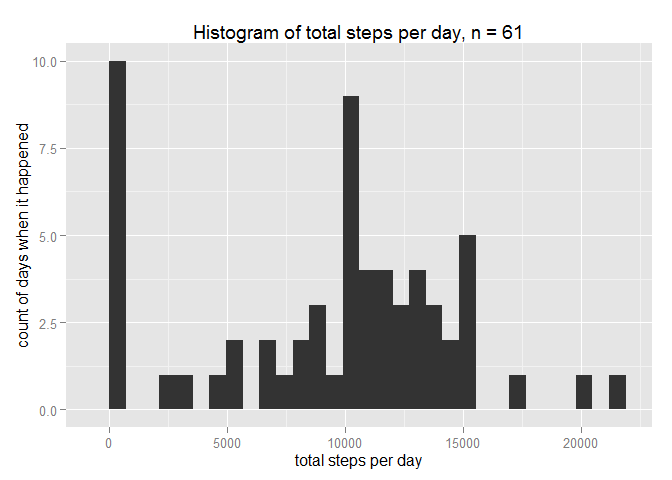
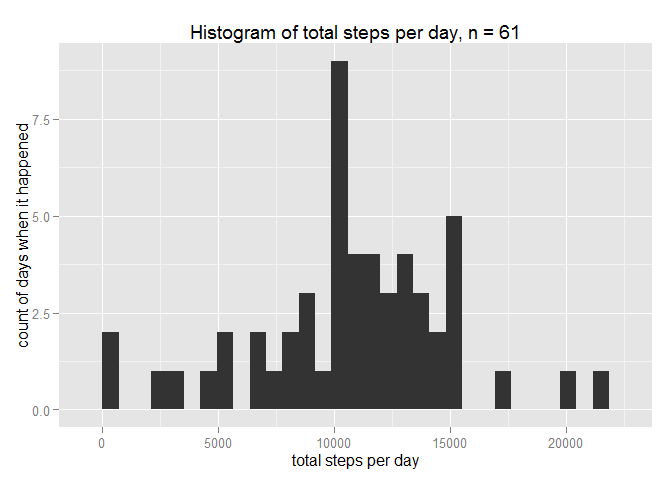
final
final

diff --git a/PA1_template_szzs.html b/PA1_template_szzs.html
@@ -83,7 +83,8 @@ library(dplyr)</code></pre>
 <h3>Total number of steps taken per day</h3>
 <p>The numbers are summarized in a new dataframe called “dailySteps” produced by the code below.</p>
 <pre class="r"><code>dailySteps &lt;- summarise(group_by(stepData, date), 
-                        &quot;totalsteps&quot; = sum(steps, na.rm=TRUE))</code></pre>
+                        &quot;totalsteps&quot; = sum(steps, na.rm=TRUE))
+dailySteps &lt;- filter(dailySteps, dailySteps$totalsteps!=0)</code></pre>
 </div>
 <div id="histogram-of-the-total-number-of-steps-taken-each-day" class="section level3">
 <h3>Histogram of the total number of steps taken each day</h3>
@@ -92,15 +93,15 @@ library(dplyr)</code></pre>
       xlab = &quot;total steps per day&quot;, 
       ylab = &quot;count of days when it happened&quot;,
       main = &quot;Histogram of total steps per day, n = 61&quot;)</code></pre>
[2 lines of base64/hex data omitted]
 </div>
 <div id="mean-and-median-of-the-total-number-of-steps-taken-per-day" class="section level3">
 <h3>Mean and median of the total number of steps taken per day</h3>
 <p>For this calculation still the “dailySteps” dataframe is used. The mean and the median are slightly different.</p>
 <pre class="r"><code>print(paste(&quot;mean:&quot;, round(mean(dailySteps$totalsteps), digits=0)))</code></pre>
-<pre><code>## [1] &quot;mean: 9354&quot;</code></pre>
+<pre><code>## [1] &quot;mean: 10766&quot;</code></pre>
 <pre class="r"><code>print(paste(&quot;median:&quot;, median(dailySteps$totalsteps)))</code></pre>
-<pre><code>## [1] &quot;median: 10395&quot;</code></pre>
+<pre><code>## [1] &quot;median: 10765&quot;</code></pre>
 </div>
 </div>
 <div id="what-is-the-average-daily-activity-pattern" class="section level2">
@@ -118,9 +119,10 @@ qplot(intervalSteps$interval, intervalSteps$`average steps in interval`, data=in
 </div>
 <div id="the-5-minute-interval-which-contains-the-maximum-number-of-steps" class="section level3">
 <h3>The 5-minute interval which contains the maximum number of steps</h3>
-<p>The most active time interval is shown to be around 17 o’clock in the afternoon.</p>
-<pre class="r"><code>intervalSteps$interval[max(intervalSteps$`average steps in interval`)]</code></pre>
-<pre><code>## [1] 1705</code></pre>
+<p>The most active time interval is shown to be in the one below.</p>
+<pre class="r"><code>intervalSteps$interval[intervalSteps$`average steps in interval`==
+                         max(intervalSteps$`average steps in interval`)]</code></pre>
+<pre><code>## [1] 835</code></pre>
 </div>
 </div>
 <div id="imputing-missing-values" class="section level2">

diff --git a/PA1_template_szzs.md b/PA1_template_szzs.md
@@ -30,6 +30,7 @@ The numbers are summarized in a new dataframe called "dailySteps" produced by th
 ```r
 dailySteps <- summarise(group_by(stepData, date), 
                         "totalsteps" = sum(steps, na.rm=TRUE))
+dailySteps <- filter(dailySteps, dailySteps$totalsteps!=0)
 ```
 
 ###Histogram of the total number of steps taken each day
@@ -52,7 +53,7 @@ print(paste("mean:", round(mean(dailySteps$totalsteps), digits=0)))
 ```
 
 ```
-## [1] "mean: 9354"
+## [1] "mean: 10766"
 ```
 
 ```r
@@ -60,7 +61,7 @@ print(paste("median:", median(dailySteps$totalsteps)))
 ```
 
 ```
-## [1] "median: 10395"
+## [1] "median: 10765"
 ```
 
 ##What is the average daily activity pattern?
@@ -80,14 +81,15 @@ qplot(intervalSteps$interval, intervalSteps$`average steps in interval`, data=in
 ![](PA1_template_szzs_files/figure-html/unnamed-chunk-8-1.png) 
 
 ###The 5-minute interval which contains the maximum number of steps
-The most active time interval is shown to be around 17 o'clock in the afternoon.
+The most active time interval is shown to be in the one below.
 
 ```r
-intervalSteps$interval[max(intervalSteps$`average steps in interval`)]
+intervalSteps$interval[intervalSteps$`average steps in interval`==
+                         max(intervalSteps$`average steps in interval`)]
 ```
 
 ```
-## [1] 1705
+## [1] 835
 ```
 
 ##Imputing missing values
